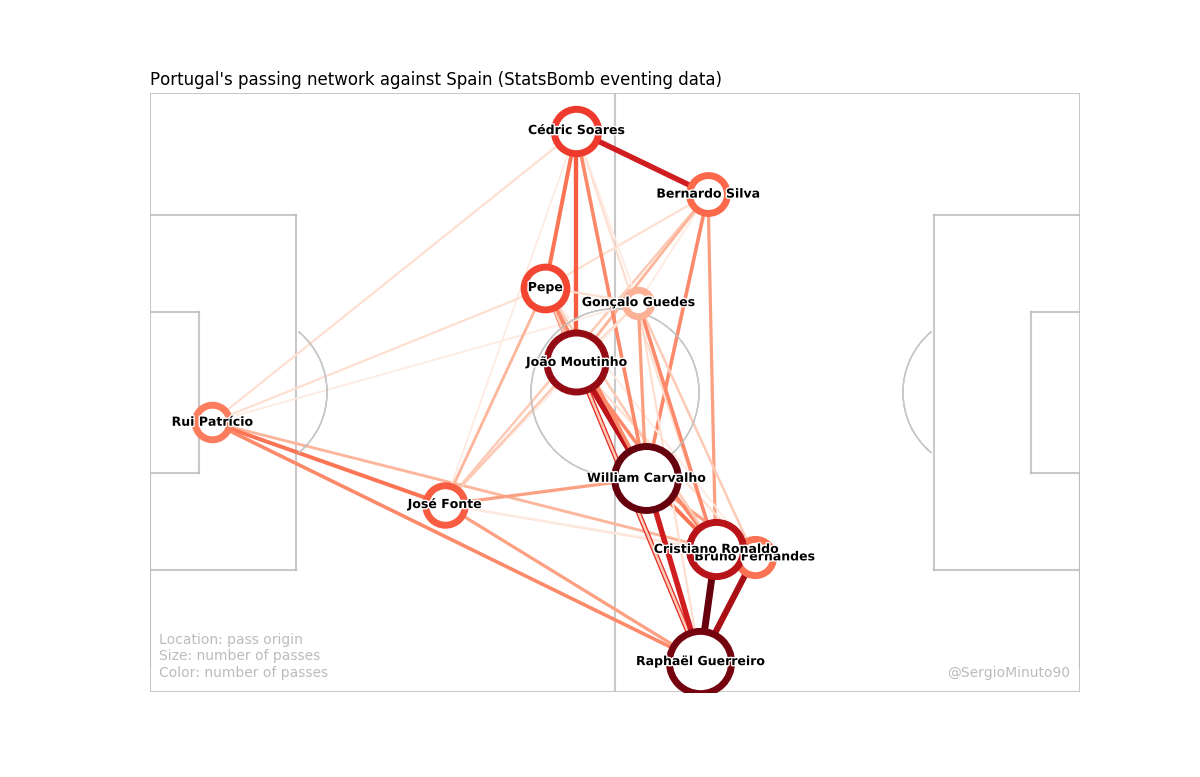
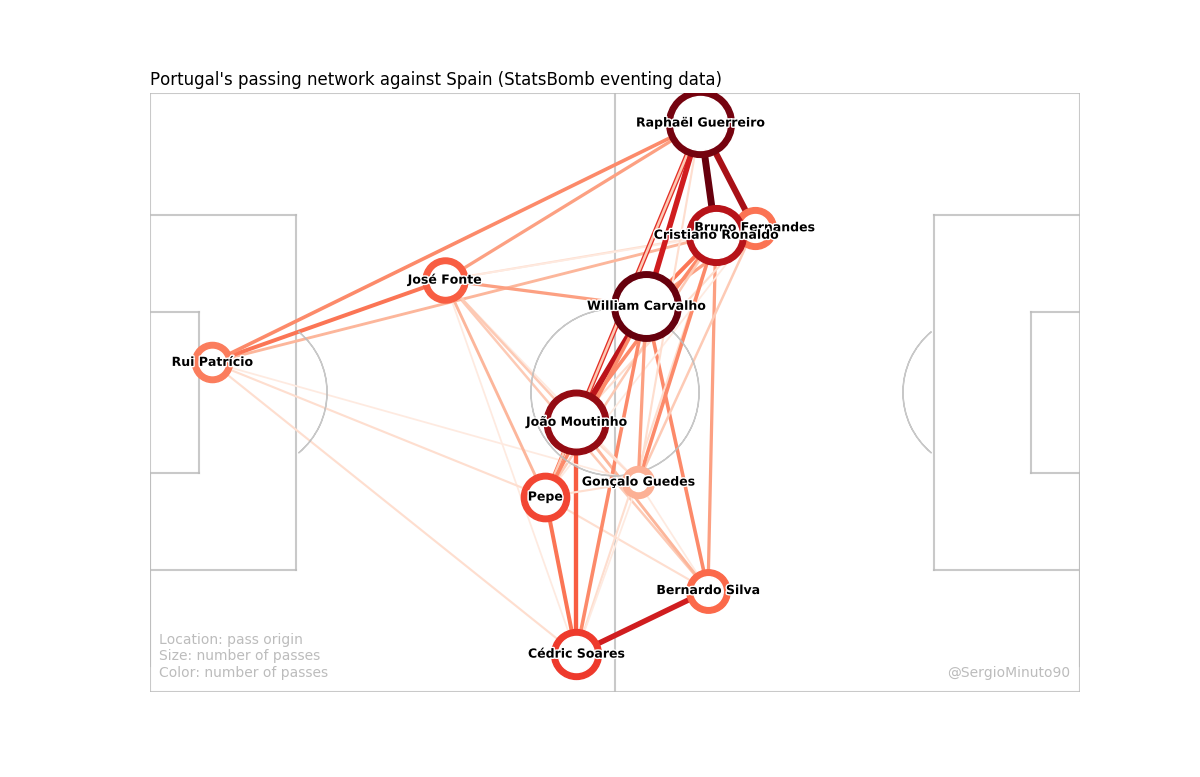
Reversing y axis for eventing data

Changed region(s): [[0.1233, 0.1236, 0.6783, 0.8958], [0.2775, 0.4633, 0.3083, 0.4942]]

diff --git a/utils.py b/utils.py
@@ -68,7 +68,7 @@ Laurie's methods below
 
 def read_match_data(DATADIR, gameid):
     '''
-    read_match_data(DATADIR, gameid):
+    read_match_data(DATADIR,gameid):
     read all Metrica match data (tracking data for home & away teams, and ecvent data)
     '''
     tracking_home = tracking_data(DATADIR, gameid, 'Home')
@@ -79,36 +79,33 @@ def read_match_data(DATADIR, gameid):
 
 def read_event_data(DATADIR, game_id):
     '''
-    read_event_data(DATADIR, game_id):
-    read Metrica event data for game_id and return as a DataFrame
+    read_event_data(DATADIR,game_id):
+    read Metrica event data  for game_id and return as a DataFrame
     '''
-    eventfile = '/Sample_Game_{0}/Sample_Game_{1}_RawEventsData.csv'.format(game_id, game_id)
-    events = pd.read_csv('{}/{}'.format(DATADIR, eventfile)) # read data
+    eventfile = 'Sample_Game_%s/Sample_Game_%s_RawEventsData.csv' % (game_id, game_id)  # filename
+    events = pd.read_csv('{}/{}'.format(DATADIR, eventfile))  # read data
     return events
 
 
 def tracking_data(DATADIR, game_id, teamname):
     '''
-    tracking_data(DATADIR, game_id, teamname):
+    tracking_data(DATADIR,game_id,teamname):
     read Metrica tracking data for game_id and return as a DataFrame.
     teamname is the name of the team in the filename. For the sample data this is either 'Home' or 'Away'.
     '''
-    teamfile = '/Sample_Game_{0}/Sample_Game_{1}_RawTrackingData_{2}_Team.csv'.format(game_id, game_id, teamname)
-
+    teamfile = 'Sample_Game_%s/Sample_Game_%s_RawTrackingData_%s_Team.csv' % (game_id, game_id, teamname)
     # First:  deal with file headers so that we can get the player names correct
-    csvfile =  open('{0}/{1}'.format(DATADIR, teamfile), 'r') # create a csv file reader
+    csvfile = open('{}/{}'.format(DATADIR, teamfile), 'r')  # create a csv file reader
     reader = csv.reader(csvfile)
-
+    teamnamefull = next(reader)[3].lower()
     # construct column names
-    jerseys = [x for x in next(reader) if x != ''] # extract player jersey numbers from second row
+    jerseys = [x for x in next(reader) if x != '']  # extract player jersey numbers from second row
     columns = next(reader)
-    for i, j in enumerate(jerseys): # create x & y position column headers for each player
-        columns[i*2+3] = "{}_{}_x".format(teamname, j)
-        columns[i*2+4] = "{}_{}_y".format(teamname, j)
-
-    columns[-2] = "ball_x" # column headers for the x & y positions of the ball
+    for i, j in enumerate(jerseys):  # create x & y position column headers for each player
+        columns[i * 2 + 3] = "{}_{}_x".format(teamname, j)
+        columns[i * 2 + 4] = "{}_{}_y".format(teamname, j)
+    columns[-2] = "ball_x"  # column headers for the x & y positions of the ball
     columns[-1] = "ball_y"
-
     # Second: read in tracking data and place into pandas Dataframe
     tracking = pd.read_csv('{}/{}'.format(DATADIR, teamfile), names=columns, index_col='Frame', skiprows=3)
     return tracking
@@ -118,17 +115,17 @@ def merge_tracking_data(home, away):
     '''
     merge home & away tracking data files into single data frame
     '''
-    return home.drop(columns=['ball_x', 'ball_y']).merge(away, left_index=True, right_index=True )
+    return home.drop(columns=['ball_x', 'ball_y']).merge(away, left_index=True, right_index=True)
 
 
-def to_metric_coordinates(data, field_dimen=(106.,68.)):
+def to_metric_coordinates(data, field_dimen=(106., 68.)):
     '''
     Convert positions from Metrica units to meters (with origin at centre circle)
     '''
-    x_columns = [c for c in data.columns if c[-1].lower()=='x']
-    y_columns = [c for c in data.columns if c[-1].lower()=='y']
-    data[x_columns] = ( data[x_columns]-0.5 ) * field_dimen[0]
-    data[y_columns] = -1 * ( data[y_columns]-0.5 ) * field_dimen[1]
+    x_columns = [c for c in data.columns if c[-1].lower() == 'x']
+    y_columns = [c for c in data.columns if c[-1].lower() == 'y']
+    data[x_columns] = (data[x_columns] - 0.5) * field_dimen[0]
+    data[y_columns] = -1 * (data[y_columns] - 0.5) * field_dimen[1]
     ''' 
     ------------ ***NOTE*** ------------
     Metrica actually define the origin at the *top*-left of the field, not the bottom-left, as discussed in the YouTube video. 

diff --git a/processing/tracking.py b/processing/tracking.py
@@ -35,7 +35,7 @@ class MetricaPassingNetwork(PassingNetworkBuilder, ABC):
         self.player_pass_count = None
 
     def read_data(self):
-        data_path = "data/tracking/"
+        data_path = "data/tracking"
 
         # Read both tracking and eventing data
         df_events = read_event_data(data_path, self.match_id)
@@ -171,7 +171,7 @@ class MetricaTrackingPassingNetwork(MetricaPassingNetwork):
 
         if self.half:
             match_start = self.df_events[self.df_events["Subtype"] == "KICK OFF"].iloc[0]["Start Frame"]
-            mean_x = df_tracking.loc[df_tracking.index == match_start, x_columns].mean().mean()
+            mean_x = self.df_tracking.loc[self.df_tracking.index == match_start, x_columns].mean().mean()
 
             if self.half == "own_half":
                 if mean_x < 0.5:

diff --git a/processing/eventing.py b/processing/eventing.py
@@ -73,7 +73,7 @@ class StatsBombPassingNetwork(PassingNetworkBuilder, ABC):
 
     @staticmethod
     def _statsbomb_to_point(location, max_width=120, max_height=80):
-        return location[0] / max_width, location[1] / max_height
+        return location[0] / max_width, 1-(location[1] / max_height)
 
 
 class StatsBombBasicPassingNetwork(StatsBombPassingNetwork):
